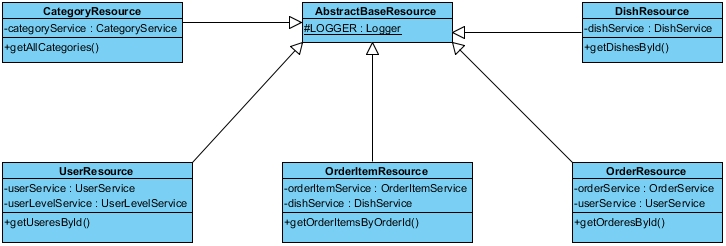
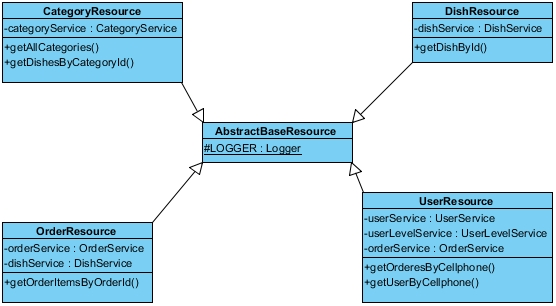
更新WS类图和时序图

diff --git a/02_code/web/eorder-ws/src/main/java/com/innovaee/eorder/resource/CategoryResource.java b/02_code/web/eorder-ws/src/main/java/com/innovaee/eorder/resource/CategoryResource.java
@@ -47,7 +47,7 @@ public class CategoryResource extends AbstractBaseResource {
      */
     @GET
     @Produces({ MediaType.APPLICATION_XML, MediaType.APPLICATION_JSON })
-    public Map<String, List<CategoryVO>> getAllCategorys() {
+    public Map<String, List<CategoryVO>> getAllCategories() {
         List<CategoryVO> categorieVOs = new ArrayList<CategoryVO>();
         List<Category> categories = new ArrayList<Category>();
         categories = categoryService.getAllCategories();
@@ -79,7 +79,7 @@ public class CategoryResource extends AbstractBaseResource {
     @GET
     @Path("/{categoryId}/dishes")
     @Produces({ MediaType.APPLICATION_XML, MediaType.APPLICATION_JSON })
-    public Map<String, List<DishVO>> getDishesByCategoy(
+    public Map<String, List<DishVO>> getDishesByCategoryId(
             @PathParam("categoryId") Integer categoryId) {
         List<Dish> dishes = categoryService.getDishesByCategoryId(categoryId);
 
